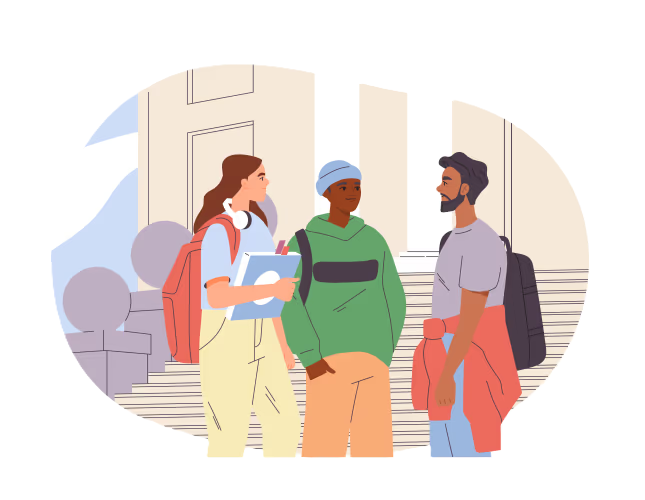
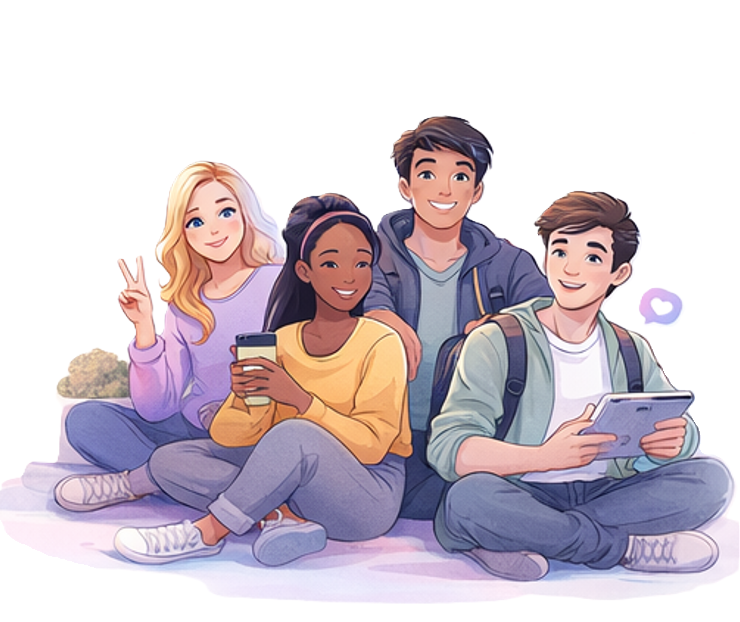
Changed students img

diff --git a/css/styles.css b/css/styles.css
@@ -269,6 +269,7 @@ html,body {
 }
 
 .step {
+  opacity: 0;
   background: rgba(2, 26, 145, 0.75);
   position: relative;
   z-index: 1;
@@ -278,6 +279,18 @@ html,body {
   backdrop-filter: blur(6px);
   border: 1px solid rgba(255, 255, 255, 0.15);
   transition: transform 0.2s ease;
+  transform: translateY(20px);
+  animation: fadeInUp 0.6s ease forwards;
+}
+
+.step:nth-child(2) {animation-delay: 0.2s;}
+.step:nth-child(3) {animation-delay: 0.4s;}
+
+@keyframes fadeInUp {
+  to {
+    opacity: 1;
+    transform: translateY(0);
+  }
 }
 
 .step:hover {
@@ -285,17 +298,19 @@ html,body {
 }
 
 .step::after {
-  content: "→";
+  content: "➜";
   position: absolute;
-  z-index: 10;
   right: -50px;
   top: 50%;
   transform: translateY(-50%);
-  font-size: 32px;
-  color: #38bdf8;
-  opacity: 0.8;
-  text-shadow: 0 0 8px rgba(56, 189, 248, 0.6);
+  font-size: 34px;
+  color: #ffffff;
+  opacity: 0.75;
+  text-shadow:
+    0 0 6px rgba(56, 189, 248, 0.8),
+    0 0 12px rgba(56, 189, 248, 0.6);
   animation: arrowPulse 1.5s infinite;
+  z-index: 10;
 }
 
 @keyframes arrowPulse {
